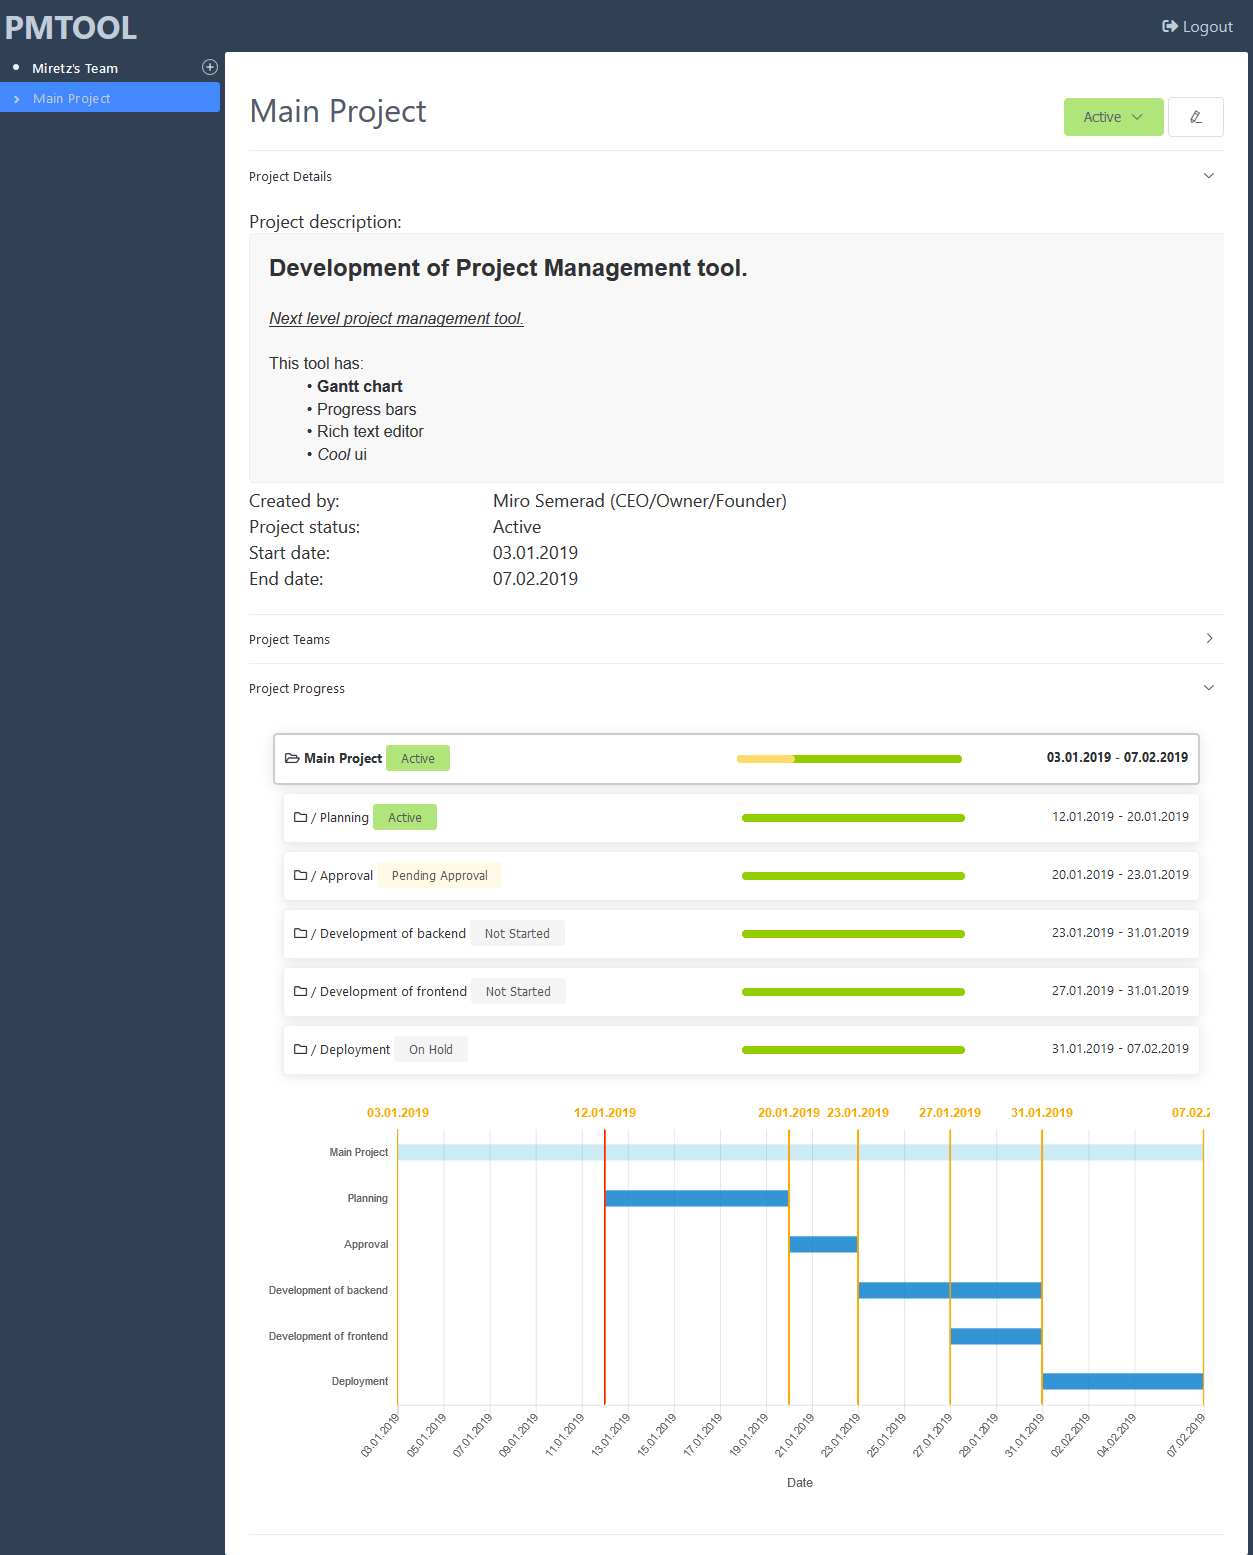
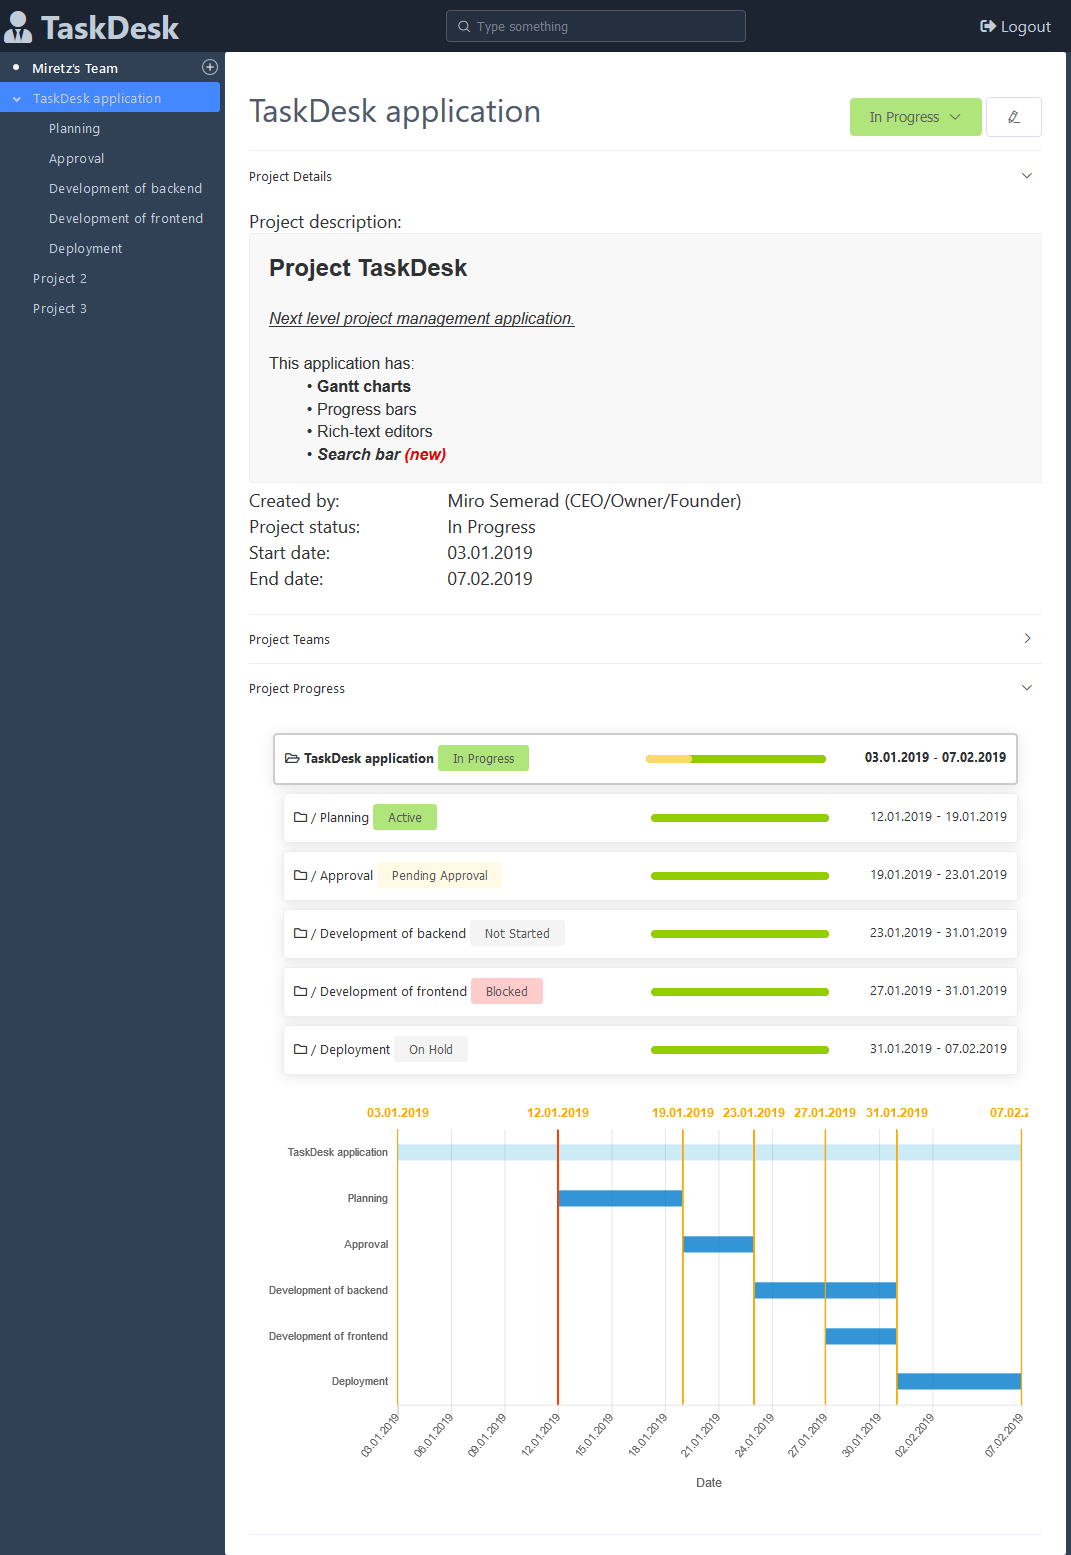
Branding update

diff --git a/client/src/router.js b/client/src/router.js
@@ -13,14 +13,14 @@ const login = {
   path: '/login',
   name: 'login',
   component: Login,
-  meta: { title: 'Login - pmtool' }
+  meta: { title: 'Login - TaskDesk' }
 }
 
 const workspace = {
   path: '/w',
   name: 'workspace',
   component: Workspace,
-  meta: { title: 'Workspace - pmtool', requiresAuth: true },
+  meta: { title: 'Workspace - TaskDesk', requiresAuth: true },
   children: [
     {
       path: 'folder/:id',
@@ -44,13 +44,13 @@ const router = new Router({
       path: '/',
       name: 'home',
       component: Home,
-      meta: { title: 'pmtool', redirect: true }
+      meta: { title: 'TaskDesk', redirect: true }
     },
     {
       path: '/signup/:id',
       name: 'signup',
       component: Signup,
-      meta: { title: 'Signup - pmtool' }
+      meta: { title: 'Signup - TaskDesk' }
     },
     login,
     workspace

diff --git a/client/src/views/Workspace.vue b/client/src/views/Workspace.vue
@@ -4,7 +4,7 @@
       <el-row type="flex">
         <el-col :span="10">
           <div @click="reloadPage" class="pointer">
-            <h1>PMTOOL</h1>
+            <h1><i class="fas fa-user-tie"></i> TaskDesk</h1>
           </div>
         </el-col>
         <el-col :span="4">
@@ -176,8 +176,8 @@ aside {
 
 .search-input >>> input {
   color: #c0ccd8;
-  background-color: #1b2430;
-  border: 1px solid #444;
+  background-color: #242f3f;
+  border: 1px solid #556;
   width: 300px;
 }
 

diff --git a/client/src/views/Folder.vue b/client/src/views/Folder.vue
@@ -167,7 +167,7 @@ export default {
             ? "Project description is empty.\n"
             : this.folder.description;
         if (this.isTeam) {
-          document.title = `${this.folder.name} - pmtool`;
+          document.title = `${this.folder.name} - TaskDesk`;
         }
         this.status = this.folder.status;
       }

diff --git a/client/src/views/Signup.vue b/client/src/views/Signup.vue
@@ -4,7 +4,7 @@
 
     <el-main>
       <div class="container-center">
-        <div>Welcome to pmtool! Finish setting up your account</div>
+        <div>Welcome to TaskDesk! Finish setting up your account</div>
 
         <div v-if="error" class="error">{{ error }}</div>
 

diff --git a/client/src/views/FolderDetail.vue b/client/src/views/FolderDetail.vue
@@ -81,7 +81,7 @@ export default {
   },
   props: ["folder"],
   mounted() {
-    document.title = `${this.folder.name} - pmtool`;
+    document.title = `${this.folder.name} - TaskDesk`;
   },
   methods: {
     validateSettings() {

diff --git a/README.md b/README.md
@@ -1,4 +1,4 @@
-# pmtool
+# TaskDesk
 
 
 **Warning: Work in progress. This project is in a very early stage.**
